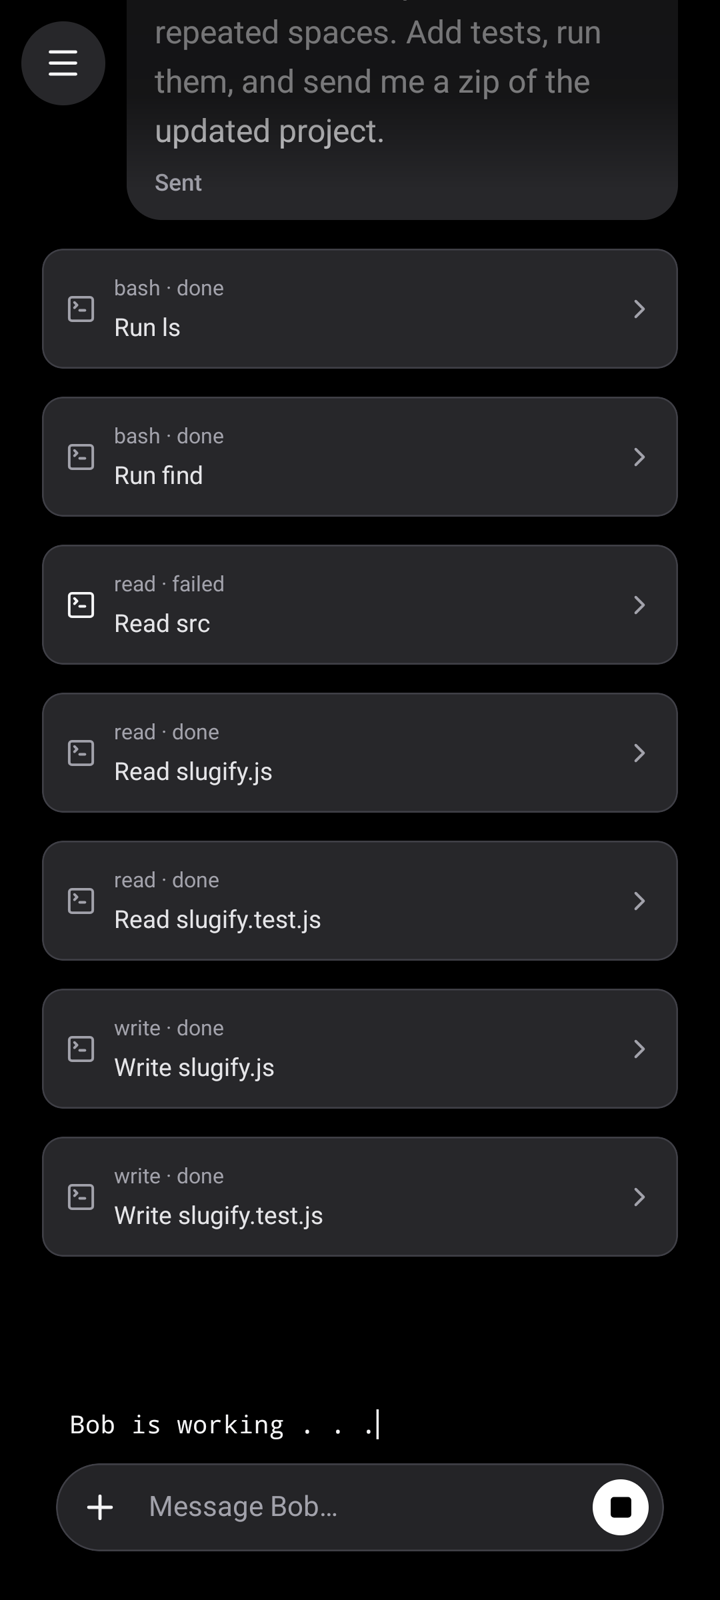
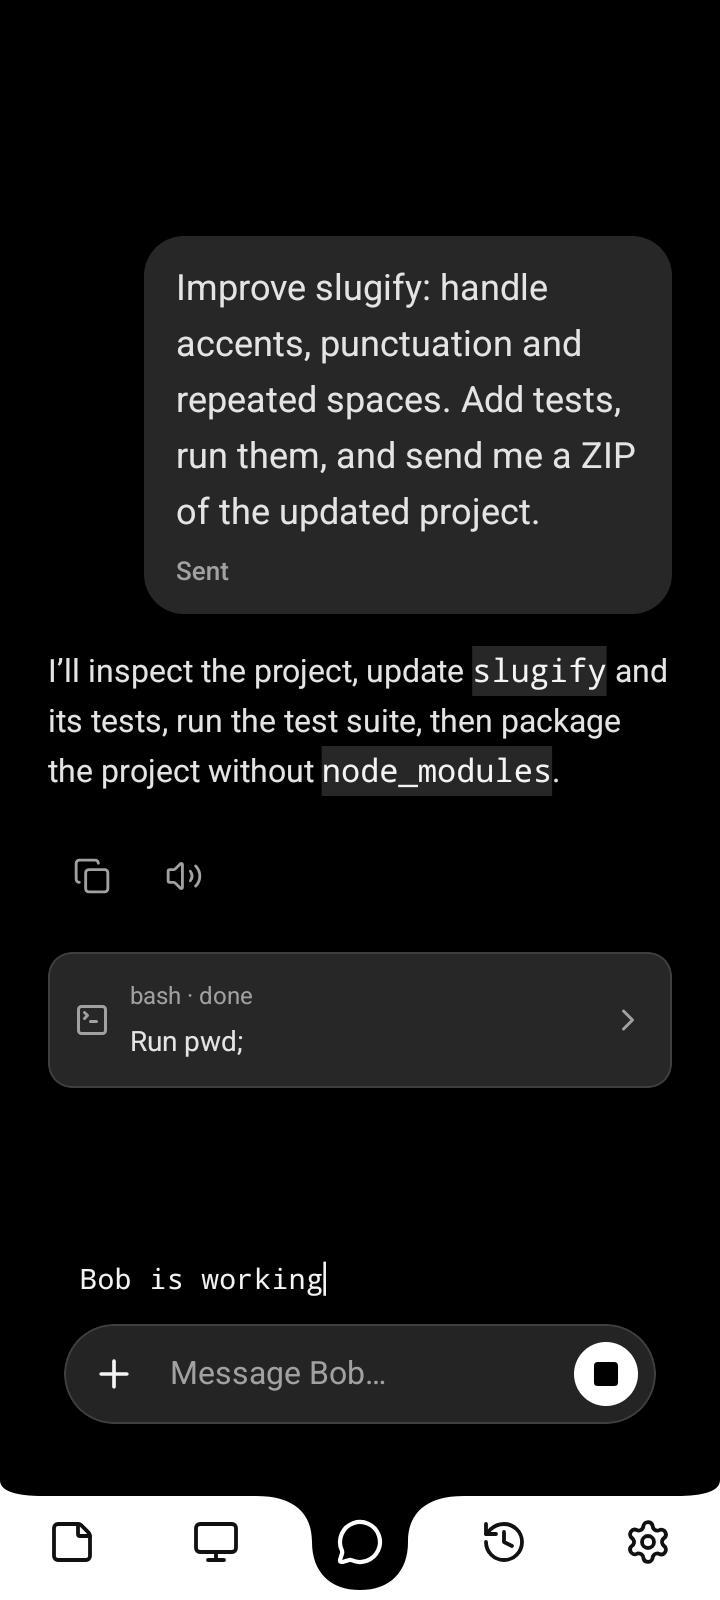
Refresh README screenshots and demo for Bob 0.3.93
Capture the current navigation and composer during a real coding run in an Android 16 emulator. Replace the three showcase screenshots and trimmed demo GIF, and update the capture caption.

diff --git a/README.md b/README.md
@@ -31,7 +31,7 @@ Ask Bob to improve a JavaScript utility, add tests and send back the updated pro
   <img src="assets/showcase/coding-demo.gif" width="420" alt="Animated recording of Bob inspecting the sample project, editing the utility, running tests and returning a ZIP">
 </p>
 
-A real model run on a disposable sample project, captured from Bob 0.3.65 in an Android 16 emulator. The 45-second recording is trimmed, not sped up; responses are not scripted. Screenshots show different points in the same conversation.
+A real model run on a disposable sample project, captured from Bob 0.3.93 in an Android 16 emulator. The recording is trimmed, not sped up; responses are not scripted. Screenshots show different points in the same conversation.
 
 ## What it does
 
